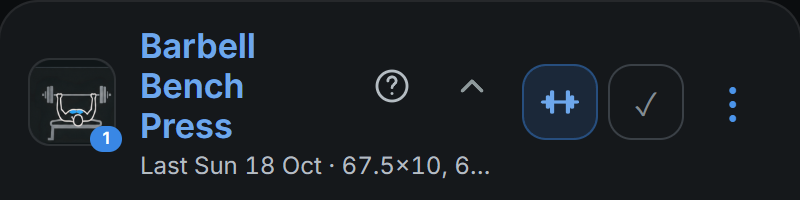
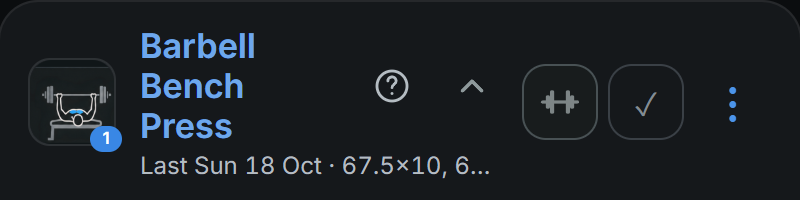
Make the plate calculator button grey like the finish button

Changed region(s): [[0.625, 0.3, 0.75, 0.72]]

diff --git a/frontend/src/plateCalculator.css b/frontend/src/plateCalculator.css
@@ -6,11 +6,11 @@
   display: grid;
   flex: 0 0 auto;
   place-items: center;
-  border: 1.5px solid color-mix(in srgb, var(--p-accent) 40%, transparent);
+  border: 1px solid #485154;
   border-radius: 12px;
   padding: 0;
-  background: var(--p-accent-soft);
-  color: var(--p-accent-text);
+  background: #181c1d;
+  color: #7d8586;
   transition: transform 160ms var(--ease-out);
 }
 
